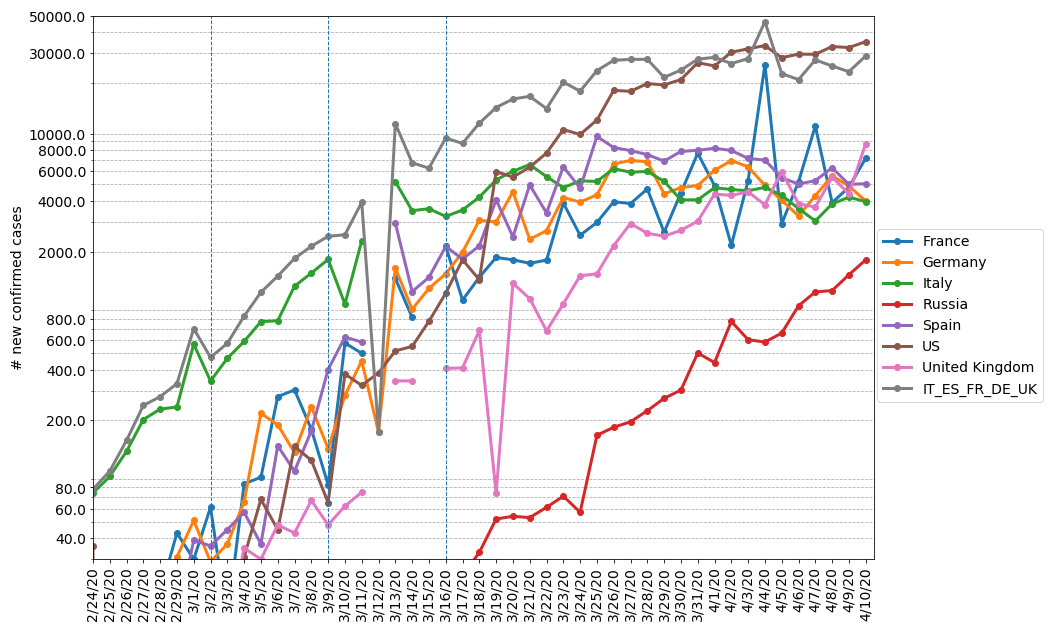
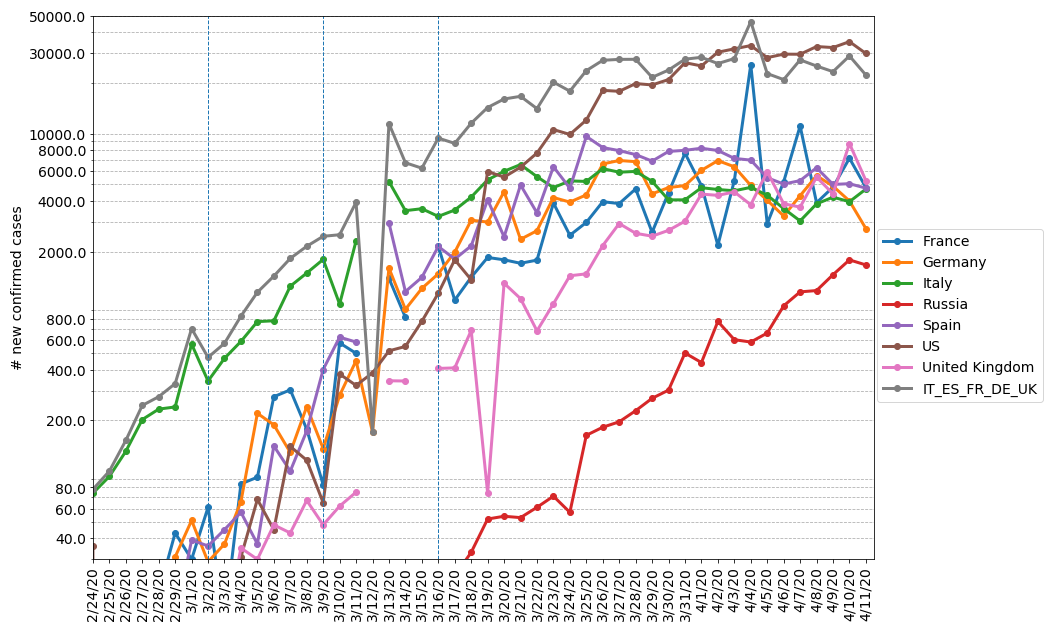
Build site at 2020-04-12 09:04:17 UTC

Changed region(s): [[0.0912, 0.0301, 0.8509, 0.9937], [0.7901, 0.3914, 0.8205, 0.4517], [0.0912, 0.7227, 0.1216, 0.7528]]

diff --git a/covid-visualization/index.html b/covid-visualization/index.html
@@ -104,7 +104,15 @@
 <h3 id="total-number-of-cases-by-date-logarithmic-y-axis">Total number of cases by date (logarithmic y-axis)</h3>
 
 <p>This is showing the cumulative number of confirmed COVID19 cases in the major European countries, the US and some of the major Asian countries. The numbers are plotted by date.
-The 5 biggest European countries by population (Germany, UK, France, Italy and Spain) have a combined population almost exactly equal to the US, so it is useful to plot them also as a group, this is shown by ‘<em>IT_ES_FR_DE_UK’</em>.</p>
+The 5 biggest European countries by population (Germany, UK, France, Italy and Spain) have a combined population almost exactly equal to the US, so it is useful to plot them also as a group, this is shown by ‘<em>IT_ES_FR_DE_UK’</em>.
+The insets show European countries plus the US and Asian countries, respectively.
+The dashed blue lines on the left inset show the dates:</p>
+<ul>
+  <li>20/February: exponential increase of cases starts in Italy</li>
+  <li>26/February: exponential increase of cases starts in France</li>
+  <li>09/March: national lockdown in Italy</li>
+  <li>09/March: national lockdown in France</li>
+</ul>
 
 <p><img src="/images/covid/west_vs_asia_w_china.png" alt="_config.yml" /></p>
 
@@ -126,7 +134,7 @@ The 5 biggest European countries by population (Germany, UK, France, Italy and S
 
 <p><img src="/images/covid/newcases_west_vs_asia_w_china.png" alt="_config.yml" /></p>
 
-<h3 id="number-of-new-cases-in-europe-us-and-asia-plotted-by-date">Number of new cases in Europe, US and Asia, plotted by date</h3>
+<h3 id="number-of-new-cases-in-europe-and-the-us">Number of new cases in Europe and the US</h3>
 
 <p>Number of new confirmed cases by date for Western countries and Russia only. The dashed blue lines show the imposition of the lockdowns in Italy (02/March, 09/March) and France (16/March).</p>
 
@@ -432,15 +440,19 @@ China’s wildlife farming has evolved into a gigantic business interest. In 201
 
 <h4 id="reuters-detailed-account-of-uk-gov-response-timeline"><a href="https://www.reuters.com/article/us-health-coronavirus-britain-path-speci-idUSKBN21P1VF">Reuters detailed account of UK gov response timeline</a></h4>
 
-<h4 id="politicoeu-how-europe-failed-the-coronavirus-test"><a href="https://www.politico.eu/article/coronavirus-europe-failed-the-test/">Politico.eu: How Europe failed the coronavirus test</a></h4>
+<p>####<a href="https://sbhager.com/covid-19-and-the-coming-corporate-debt-catastrophe/">COVID-19 and the Coming Corporate Debt Catastrophe (13, March)</a></p>
 
+<h4 id="politicoeu-how-europe-failed-the-coronavirus-test"><a href="https://www.politico.eu/article/coronavirus-europe-failed-the-test/">Politico.eu: How Europe failed the coronavirus test</a></h4>
 <!---![_config.yml](/images/covid/reaction_eur_states_14978916_1586353616114.png)--->
+
 <p>This is a <a href="https://images.jifo.co/14978916_1586353616114.png">useful table</a> on how many days it took European governments to apply restrictions after the 3rd death from COVID19.
 Greece, Eastern European states did it before 3rd death, Spain 9-10 days after, UK, France 2 weeks after.</p>
 
 <!---!
 <div class="infogram-embed" data-id="0991a8d7-ada2-4fc2-a351-f446081b8d95" data-type="interactive" data-title="3 — Comparing when coronavirus measures were implemented"></div><script>!function(e,i,n,s){var t="InfogramEmbeds",d=e.getElementsByTagName("script")[0];if(window[t]&&window[t].initialized)window[t].process&&window[t].process();else if(!e.getElementById(n)){var o=e.createElement("script");o.async=1,o.id=n,o.src="https://e.infogram.com/js/dist/embed-loader-min.js",d.parentNode.insertBefore(o,d)}}(document,0,"infogram-async");</script>
 --->
+
+<p><a href="https://climateandcapitalism.com/2020/03/11/capitalist-agriculture-and-covid-19-a-deadly-combination/">Capitalist agriculture and Covid-19: A deadly combination (11 March)</a></p>
 
   </div>
 

diff --git a/blog/tags/index.html b/blog/tags/index.html
@@ -611,6 +611,13 @@
 				<code>[09 Apr 2020]</code>
 			</li>
       
+      <li>
+				<a class="post-title" href="/illusion-globalisation/">
+        1990-2020, the false dawn of globalization?
+				</a>
+				<code>[29 Feb 2020]</code>
+			</li>
+      
     </ul>
     
     <h2 id="covid19">covid19</h2>
@@ -621,6 +628,13 @@
         Tracking the pandemic
 				</a>
 				<code>[09 Apr 2020]</code>
+			</li>
+      
+      <li>
+				<a class="post-title" href="/illusion-globalisation/">
+        1990-2020, the false dawn of globalization?
+				</a>
+				<code>[29 Feb 2020]</code>
 			</li>
       
     </ul>

diff --git a/illusion-globalisation/index.html b/illusion-globalisation/index.html
@@ -222,6 +222,12 @@ Within a best case scenario of moderate warming, its effects could be mitigated 
     
     <a href="/tag/ecology"><code class="highligher-rouge"><nobr>ecology</nobr></code>&nbsp;</a>
   
+    
+    <a href="/tag/epidemics"><code class="highligher-rouge"><nobr>epidemics</nobr></code>&nbsp;</a>
+  
+    
+    <a href="/tag/covid19"><code class="highligher-rouge"><nobr>covid19</nobr></code>&nbsp;</a>
+  
 ]</span>
 
 

diff --git a/tag/covid19/index.html b/tag/covid19/index.html
@@ -87,6 +87,10 @@
     
   </li>
 
+  <li><a href="/illusion-globalisation/">1990-2020, the false dawn of globalization?</a> (29 Feb 2020)<br>
+    
+  </li>
+
 </ul>
 
 </div>

diff --git a/tag/epidemics/index.html b/tag/epidemics/index.html
@@ -87,6 +87,10 @@
     
   </li>
 
+  <li><a href="/illusion-globalisation/">1990-2020, the false dawn of globalization?</a> (29 Feb 2020)<br>
+    
+  </li>
+
 </ul>
 
 </div>
